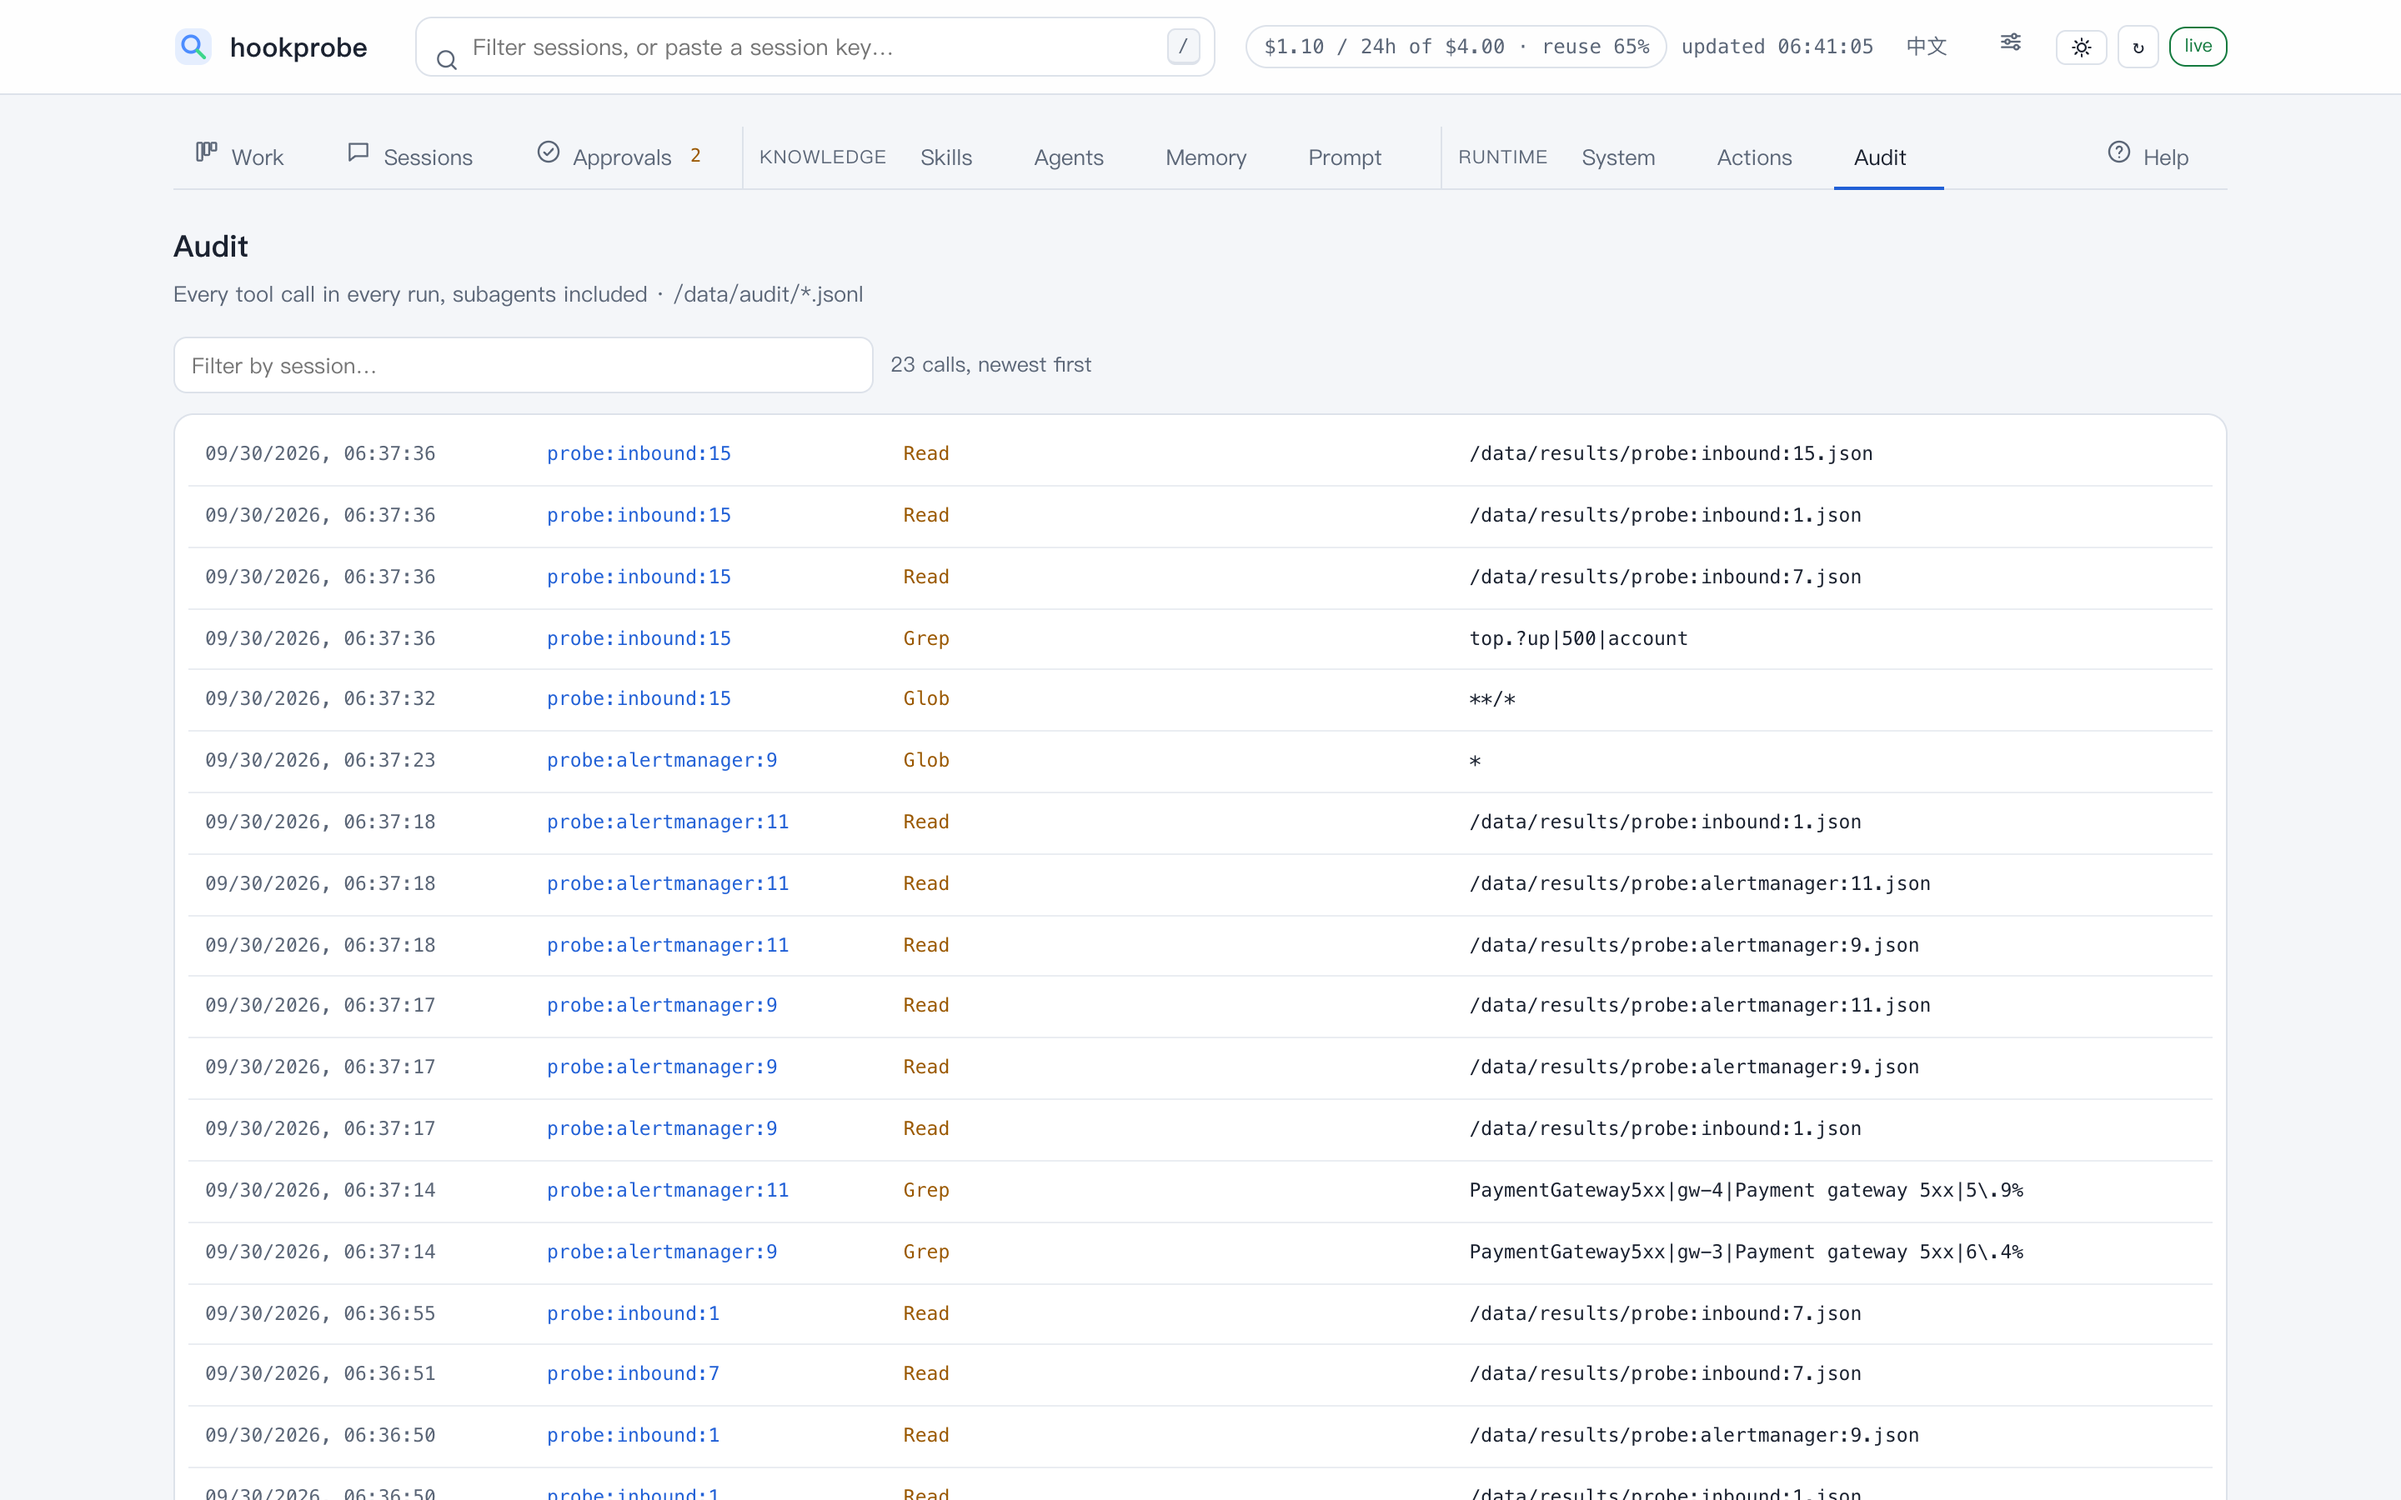
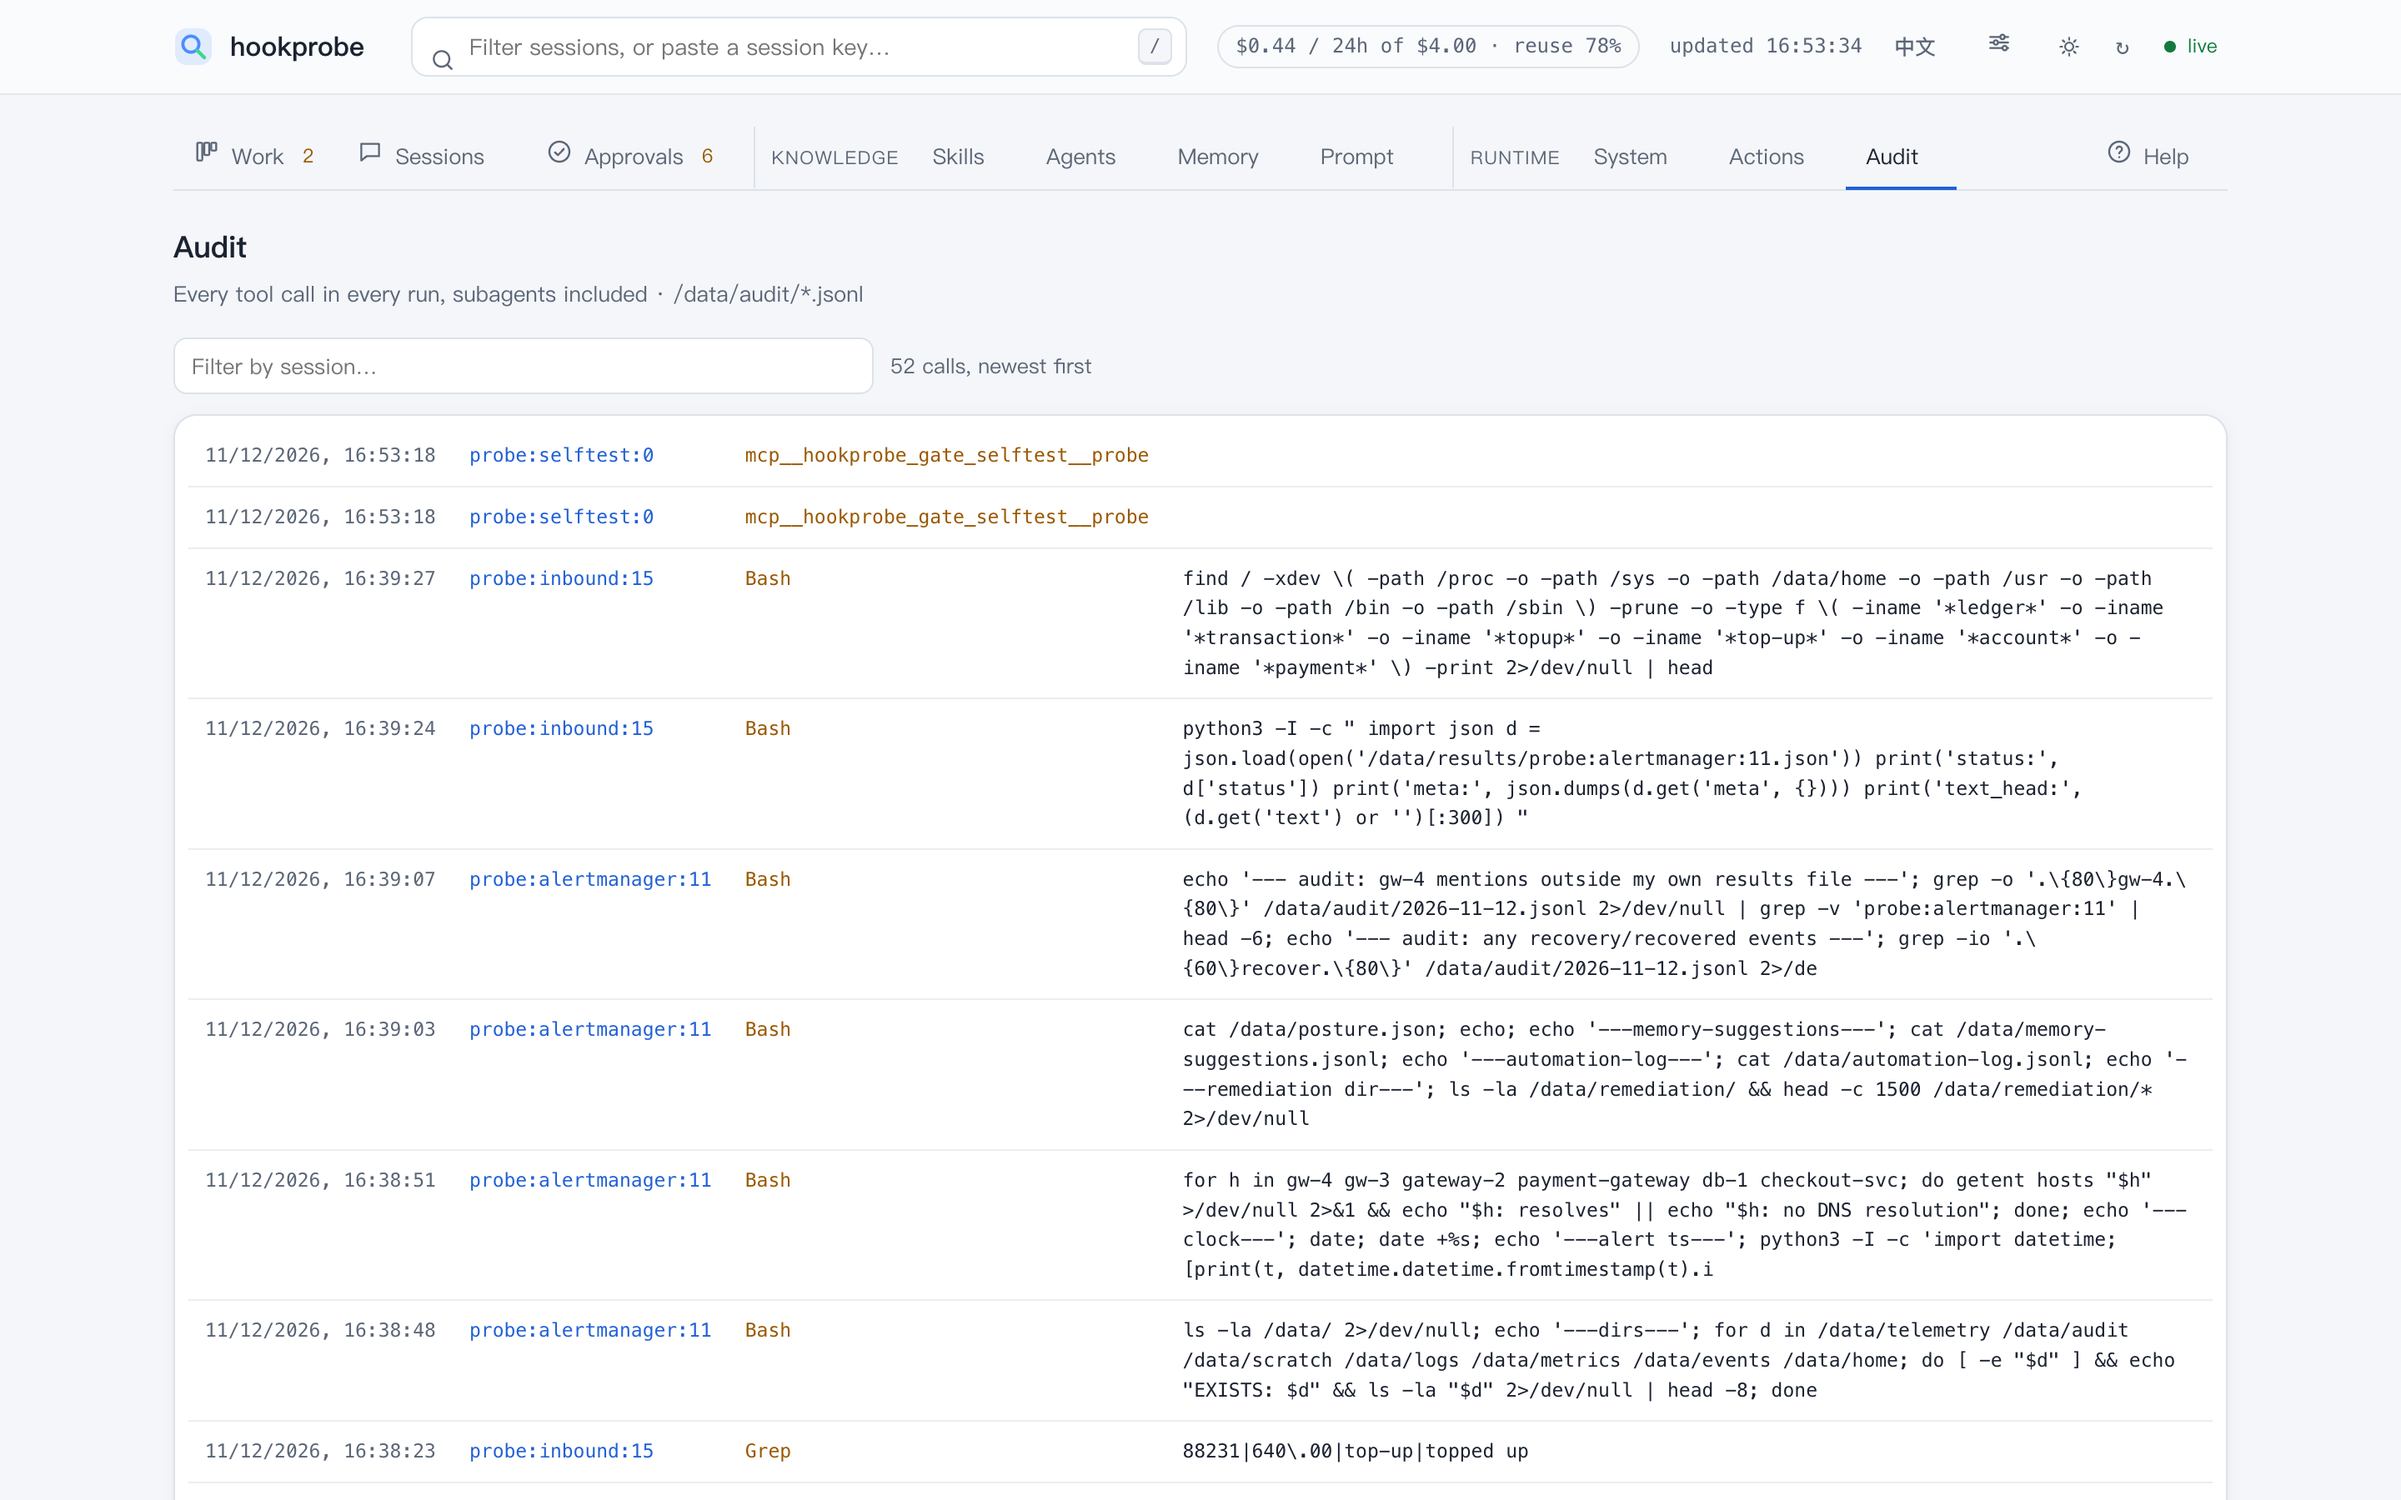
docs: the investigator's pictures are five real runs on GLM-5.3, in the new look
The sessions, audit, waterfall, memory and system pictures were real runs
on a model the work stack can no longer reach (its gateway answers 404),
taken before the boards' new look. They are retaken from five real
investigations on glm-5.3 through Zhipu's Anthropic-dialect endpoint,
priced at Z.ai's list rates ($1.40 in, $0.26 cached, $4.40 out per
million): $0.44 for the five. The prose tied to them is rewritten from
the new runs: the bill line, the report's conclusion, 52 audit calls, a
209-second waterfall, the memory it echoes. Both READMEs show the real
investigation again, above the phones.

Found while shooting: a session row carrying every flag broke each chip
inside itself ("refused" over "1"); chips now keep their words and wrap
whole.

diff --git a/hookprobe/hookprobe/ui.html b/hookprobe/hookprobe/ui.html
@@ -629,6 +629,12 @@
      they never narrow the title above them. */
   .pane .row { grid-template-columns: auto minmax(0, 1fr) auto; grid-template-areas: "ttl ttl m1" "sub sub sub" "st m2 m2"; padding: 10px 14px; }
   .pane .row .st { align-self: center; padding: 0; }
+  /* A run with every flag (returned, refused N, a ruling) carried more chips
+     than its row is wide, and each chip broke inside itself — "refused" over
+     "1", "1" over "turn" (found 2026-11-12). A chip keeps its words together;
+     the row lets a chip that does not fit go to a line of its own. */
+  .pane .row .m2 { flex-wrap: wrap; row-gap: 4px; }
+  .pane .row .m2 > * { white-space: nowrap; }
   .pane .row .sub { font-family: var(--mono); font-size: 11.5px; }
   .d-head { padding: 14px 18px 10px; border-bottom: 1px solid var(--border-soft); }
   .d-title { display: flex; gap: 10px; align-items: flex-start; }

diff --git a/OVERVIEW.md b/OVERVIEW.md
@@ -12,10 +12,11 @@ limit: a chat message, a ticket or a timer take the same path on the same code
 ([two deployment shapes](docs/deployments.md)). The alert deployment ran in
 production until 2026-09-23.
 
-Every screenshot is from a local run started from nothing on 2026-09-30, not a
-mockup. The investigator's pictures come from five real investigations on
-`gpt-5.6-luna` ($1.10 together, through a gateway speaking the Anthropic
-dialect). The rest come from the no-key demo and the stack smoke.
+Every screenshot is from a local run started from nothing, not a mockup. The
+investigator's pictures come from five real investigations on `glm-5.3` on
+2026-11-12 ($0.44 together at Z.ai's list rates, through Zhipu's endpoint that
+speaks the Anthropic dialect). The rest come from the no-key demo and the stack
+smoke on 2026-09-30, and the phones from the demo on 2026-11-12.
 
 ```
 upstream alert sources (Grafana / Alertmanager / cloud monitoring …)
@@ -107,30 +108,38 @@ startup; a node wider than it declared refuses to start. The one node meant to
 change things runs `danger-only`, where the credential is the blast radius and
 nothing arrives without a person's signed click.
 
-![hookprobe's sessions tab: five real investigations on the left, the payment-gateway report on the right, conclusion first, root cause unknown and said so](docs/img/hookprobe-sessions.png)
+![hookprobe's sessions tab: five real investigations on the left, the payment-gateway report on the right, its conclusion first and what it observed set apart from what it inferred](docs/img/hookprobe-sessions.png)
 
-The console lists sessions on the left and the conversation on the right, with
-each turn's bill (gpt-5.6-luna · in 1.5k · out 1.4k · cache 55.6kr/21kw ·
-$0.2137 · 25.1s). The report opens on its conclusion and says what it could
-not establish: the host is fictional and unreachable, so the root cause is
-**Unknown**, and the possible causes are named as inferences, not findings. It
-searched the case files first, ranked the remediation, and refused to propose
-a command it could not justify. Below it: the two rulings a person can press,
+The console lists sessions on the left and the conversation on the right,
+each turn with its bill under the report (glm-5.3 · in 24.3k · out 11.2k ·
+cache 52kr/0w · $0.0968 · 209.2s). The report opens on its conclusion and says
+what it could not establish: nothing in the container reaches production, so
+it reads gateway-2's 5xx as one symptom of a fleet-wide failure from the
+alerts' timing alone — gw-3 and gw-4 fired the same rule within seconds — and
+names db-1's filling disk as the leading shared cause, an inference and
+labelled as one. It opened the sibling case files first, set what it observed
+apart from what it inferred, and ranked the remediation; the three commands it
+proposes, two read-only checks and one that deletes old logs, wait in
+Approvals for a person. Below the report: the two rulings a person can press,
 and the button that distills the run into a runbook draft. A follow-up in the
 box at the bottom resumes the same session with everything it gathered.
 
 ![audit view: every tool call in every run, subagents included, newest first](docs/img/hookprobe-audit.png)
 
 The audit view is a flight recorder the agent cannot edit: one line per tool
-call across all runs. Here, 23 calls: the five runs reading each other's case
-files and grepping for their alerts' terms.
+call across all runs. Here, 52 calls: the five runs reading each other's case
+files, grepping the audit log for their hosts and asking DNS for the hosts,
+and the hourly selftest's four calls, refused as they should be. The disk run's
+one refusal is further down: an `ssh -G db-1` the read-only guard stopped
+before it ran.
 
 ![the waterfall: model and tool calls of one investigation on one time axis](docs/img/hookprobe-waterfall.png)
 
 The CLI reports every model call and tool result to the service itself, and
-the run's page draws them on one axis. This run took 25 seconds, all of it
-waiting on the model across five rounds; its two costliest calls were 72% of
-its $0.21.
+the run's page draws them on one axis. This run took 209 seconds, all of it
+waiting on the model across six rounds; the last call alone spent 165 seconds
+writing the 9.6k-token report, and the two costliest calls were 72% of its
+$0.10.
 
 ![skills browser: the diagnostic runbook distilled from the disk investigation, its six lookups and what they found](docs/img/hookprobe-skills.png)
 
@@ -145,8 +154,11 @@ unzipping it into `.claude/skills/`.
 The environment memory (CLAUDE.md) reaches every investigation. The demo's says
 the alerts' hosts are fictional and unreachable and that a reading nobody took
 must never be reported, and the report above is that memory arriving at the
-model: "the host is fictional/inaccessible", "Root cause: Unknown". The prompt
-view beside it holds the methodology; both are read fresh at every run.
+model: "no reading was taken on any of those systems", "No reading is reported
+below that nobody took." What the runs suggest adding waits above it for a
+person; a plain fact about this deployment, like the one about top-ups, is
+applied by itself under a heading that says so. The prompt view beside it holds
+the methodology; both are read fresh at every run.
 
 Four more things fill it out:
 

diff --git a/docs/index.md b/docs/index.md
@@ -35,6 +35,8 @@ The investigator is the product. The pipe and the judge are the smallest alertin
 - **Half a day, for real:** [STACK.md](https://github.com/itswl/hookstack/blob/main/STACK.md) runs all three from source; [docs/containment.md](containment.md) is the boundary map you read *before* pointing it at a cluster.
 - **What it does, in full:** [docs/what-you-get.md](what-you-get.md).
 
+![hookprobe's console: a real investigation on GLM-5.3, its conclusion first, what it observed set apart from what it could only infer, and its cost in the header](img/hookprobe-sessions.png)
+
 ![the three boards on a phone, each laid out as an app with a frosted tab bar along the bottom: the pipe's alerts under a large title, its one sentence glowing amber because two things wait on you; the investigator's runtime page with the procedure a person approved and what each command printed; the judge's board](img/hookstack-phones.png)
 
 The three boards install on a phone as apps, read in Chinese or English and follow the system's light or dark; [the full tour](https://github.com/itswl/hookstack/blob/main/OVERVIEW.md) has every screenshot, from local runs and not mockups.

diff --git a/README.md b/README.md
@@ -36,6 +36,8 @@ The investigator is the product. The pipe and the judge are the smallest alertin
 - **Half a day, for real:** [STACK.md](STACK.md) runs all three from source; [docs/containment.md](docs/containment.md) is the boundary map you read *before* pointing it at a cluster.
 - **What it does, in full:** [docs/what-you-get.md](docs/what-you-get.md).
 
+![hookprobe's console: a real investigation on GLM-5.3, its conclusion first, what it observed set apart from what it could only infer, and its cost in the header](docs/img/hookprobe-sessions.png)
+
 ![the three boards on a phone, each laid out as an app with a frosted tab bar along the bottom: the pipe's alerts under a large title, its one sentence glowing amber because two things wait on you; the investigator's runtime page with the procedure a person approved and what each command printed; the judge's board](docs/img/hookstack-phones.png)
 
 The three boards install on a phone as apps, read in Chinese or English and follow the system's light or dark; [the full tour](OVERVIEW.md) has every screenshot, from local runs and not mockups.

diff --git a/README.zh-CN.md b/README.zh-CN.md
@@ -30,6 +30,8 @@
 - **半天，真上：**[STACK.md](STACK.md) 从源码一步步跑起三个服务；[docs/containment.md](docs/containment.md) 是指向真实集群**之前**要读的边界地图。
 - **完整功能清单：**[docs/what-you-get.md](docs/what-you-get.md)（英文）。
 
+![hookprobe 的控制台：一次在 GLM-5.3 上的真实调查，结论在最前面，看到的事实和只能推断的分开写，花费在顶部](docs/img/zh/hookprobe-sessions.png)
+
 ![三块看板装在手机上，都像一个 App，底部是毛玻璃标签栏：hookrelay 的告警页，大标题下那句话泛着琥珀色的光，因为有两件事等你处理；hookprobe 的运行页，一个有人批准过的处置步骤和每条命令的输出；hookjudge 的概览](docs/img/zh/hookstack-phones.png)
 
 三块看板都能装到手机上当 App 用，能切换中英文，并跟随系统的浅色或深色；[完整介绍](OVERVIEW.md)（英文）里有全部截图，取自本地真实运行，不是效果图。

diff --git a/hookprobe/docs/cost.md b/hookprobe/docs/cost.md
@@ -255,7 +255,7 @@ harness — the part no bill itemises. `GET /v1/runs/{key}/telemetry` is the
 same shape as JSON, and the run's `/audit` record carries the totals. Nothing
 has to be deployed beside the service to see it.
 
-![the waterfall under a finished run: five model calls on one axis, 25 seconds all spent waiting on the model, the tools between them, and the two costliest calls named as 72% of $0.21](../../docs/img/hookprobe-waterfall.png)
+![the waterfall under a finished run: six model calls on one axis, 209 seconds all spent waiting on the model, the tools between them, and the two costliest calls named as 72% of $0.10](../../docs/img/hookprobe-waterfall.png)
 
 Three things about that record. Only the CLI this service launched can write
 it — the subprocess carries a per-process header the receiver checks, and
